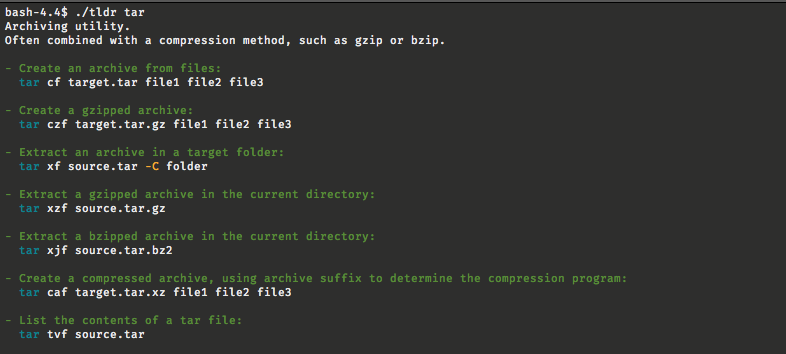
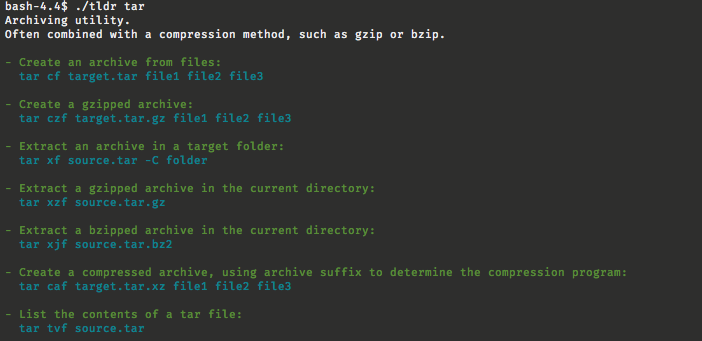
Fix coloring

diff --git a/src/Page.php b/src/Page.php
@@ -35,14 +35,18 @@ final class Page
     private static function format(string $content): string
     {
         $rules = [
+            // delete title of page that starts with #
             '/# (.+)\n\n/' => '',
+            // remove '>' from short description
             '/> (.+)/' => '$1',
+            // remove extra newline
             '/:\n/' => ':',
+            // color example command usage description
             '/(- .+)/' => '<info>$1</info>',
-            '/`(.+)`/' => '  $1',
-            '/(\n {2}\w++)/' => '<fg=cyan>$1</>',
-            '/( -+\S+)/' => '<fg=yellow>$1</>',
-            '/{{(.+?)}}/' => '</>$1',
+            // remove braces
+            '/{{(.+?)}}/' => '$1',
+            // color all text in example command usage
+            '/`(.+)`/' => '<fg=cyan>  $1</>',
         ];
 
         foreach ($rules as $pattern => $replacement) {

diff --git a/README.md b/README.md
@@ -11,7 +11,7 @@ composer global install brainmaestro/tldr
 ```
 
 ## Notes
-- Tldr pages are cache in `$HOME/.tldr`.
+- Tldr pages are cached in `$HOME/.tldr`.
 
 ## License
 MIT © Ezinwa Okpoechi
